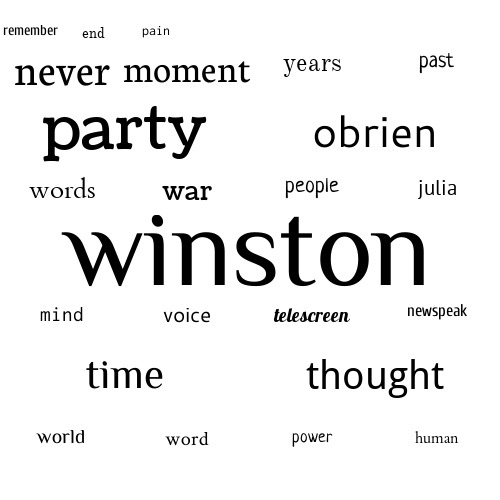
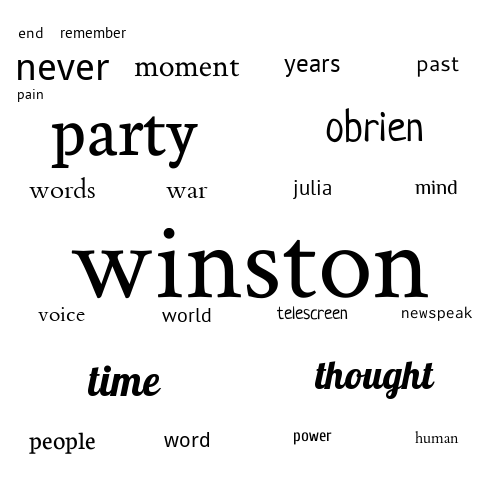
Fixed bug in grid generator for larger NUM_WORDS sizes

diff --git a/wordcloud/grid.py b/wordcloud/grid.py
@@ -3,7 +3,7 @@ import random
 from PIL import Image, ImageDraw
 
 # DEFAULT OUTPUT PATH
-GRID_IMG_FILEPATH = os.path.abspath(os.path.join(os.path.dirname( __file__ ), '..', 'output', 'word-placement-grid.png'))
+GRID_IMG_FILEPATH = os.path.abspath(os.path.join(os.path.dirname( __file__ ), '..', 'output', 'grid.png'))
 
 # GRID GENERATOR
 class GridGenerator:
@@ -60,20 +60,35 @@ def find_subsquares(start_coord, end_coord):
     width = endx - startx
     height = endy - starty
     if starty == 0:
+        print("y=0")
         sq1 = ((startx, starty), (width/2 + startx, height/2))
+
         sq2 = ((width/2 + startx, starty), (endx, height/2))
+        print(sq2)
+
         sq3 = ((startx, height/2), (width/2 + startx, height))
         sq4 = ((width/2 + startx, height/2 + starty), (endx, endy))
+        return (sq1, sq2, sq3, sq4)
     elif startx == 0:
+        print("x=0")
         sq1 = ((startx, starty), (width/2, height/2 + starty))
+
         sq2 = ((width/2 + startx, starty), (endx, height/2 + starty))
+        print(sq2)
+
         sq3 = ((startx, height/2 + starty), (width/2 + startx, height  + starty))
         sq4 = ((width/2 + startx, height/2 + starty), (endx, endy))
+        return (sq1, sq2, sq3, sq4)
     else:
+        print("else")
         sq1 = ((startx, starty), (width/2 + startx, height/2 + starty))
-        sq2 = ((width/2 + startx, height), (endx, height/2 + starty))
+
+        sq2 = ((width/2 + startx, starty), (endx, height/2 + starty))
+        print(sq2)
+
         sq3 = ((startx, height/2 + starty), (width/2 + startx, height  + starty))
         sq4 = ((width/2 + startx, height/2 + starty), (endx, endy))
+        return (sq1, sq2, sq3, sq4)
     return (sq1, sq2, sq3, sq4)
 
 def center_word_in_square(square, word_box):

diff --git a/main.py b/main.py
@@ -9,14 +9,13 @@ STOPWORDS_DATA_PATH = os.path.abspath(os.path.join(os.path.dirname( __file__ ), 
 INPUT_DATA_PATH = os.path.abspath(os.path.join(os.path.dirname( __file__ ), '.', 'input', 'data.txt'))
 
 # WORD CLOUD SETTINGS FOR OUTPUT IMAGE
-NUM_WORDS = 86
+NUM_WORDS = 24
 IMAGE_WIDTH = 500
 IMAGE_HEIGHT = 500
 
 # TO DO
 # 1. MAKE WORD PLACEMENT FAVOUR THE CENTER OF THE CANVAS
 # 2. CLEAN UP IMAGE GENERATION [wip]
-# 3 fix bug in grid generator lower quads on num_words>85
 
 # NORMALIZE INPUT DATA FROM FILE AND BUILD WORD DICT
 stopwords = set_stopwords(STOPWORDS_DATA_PATH)
